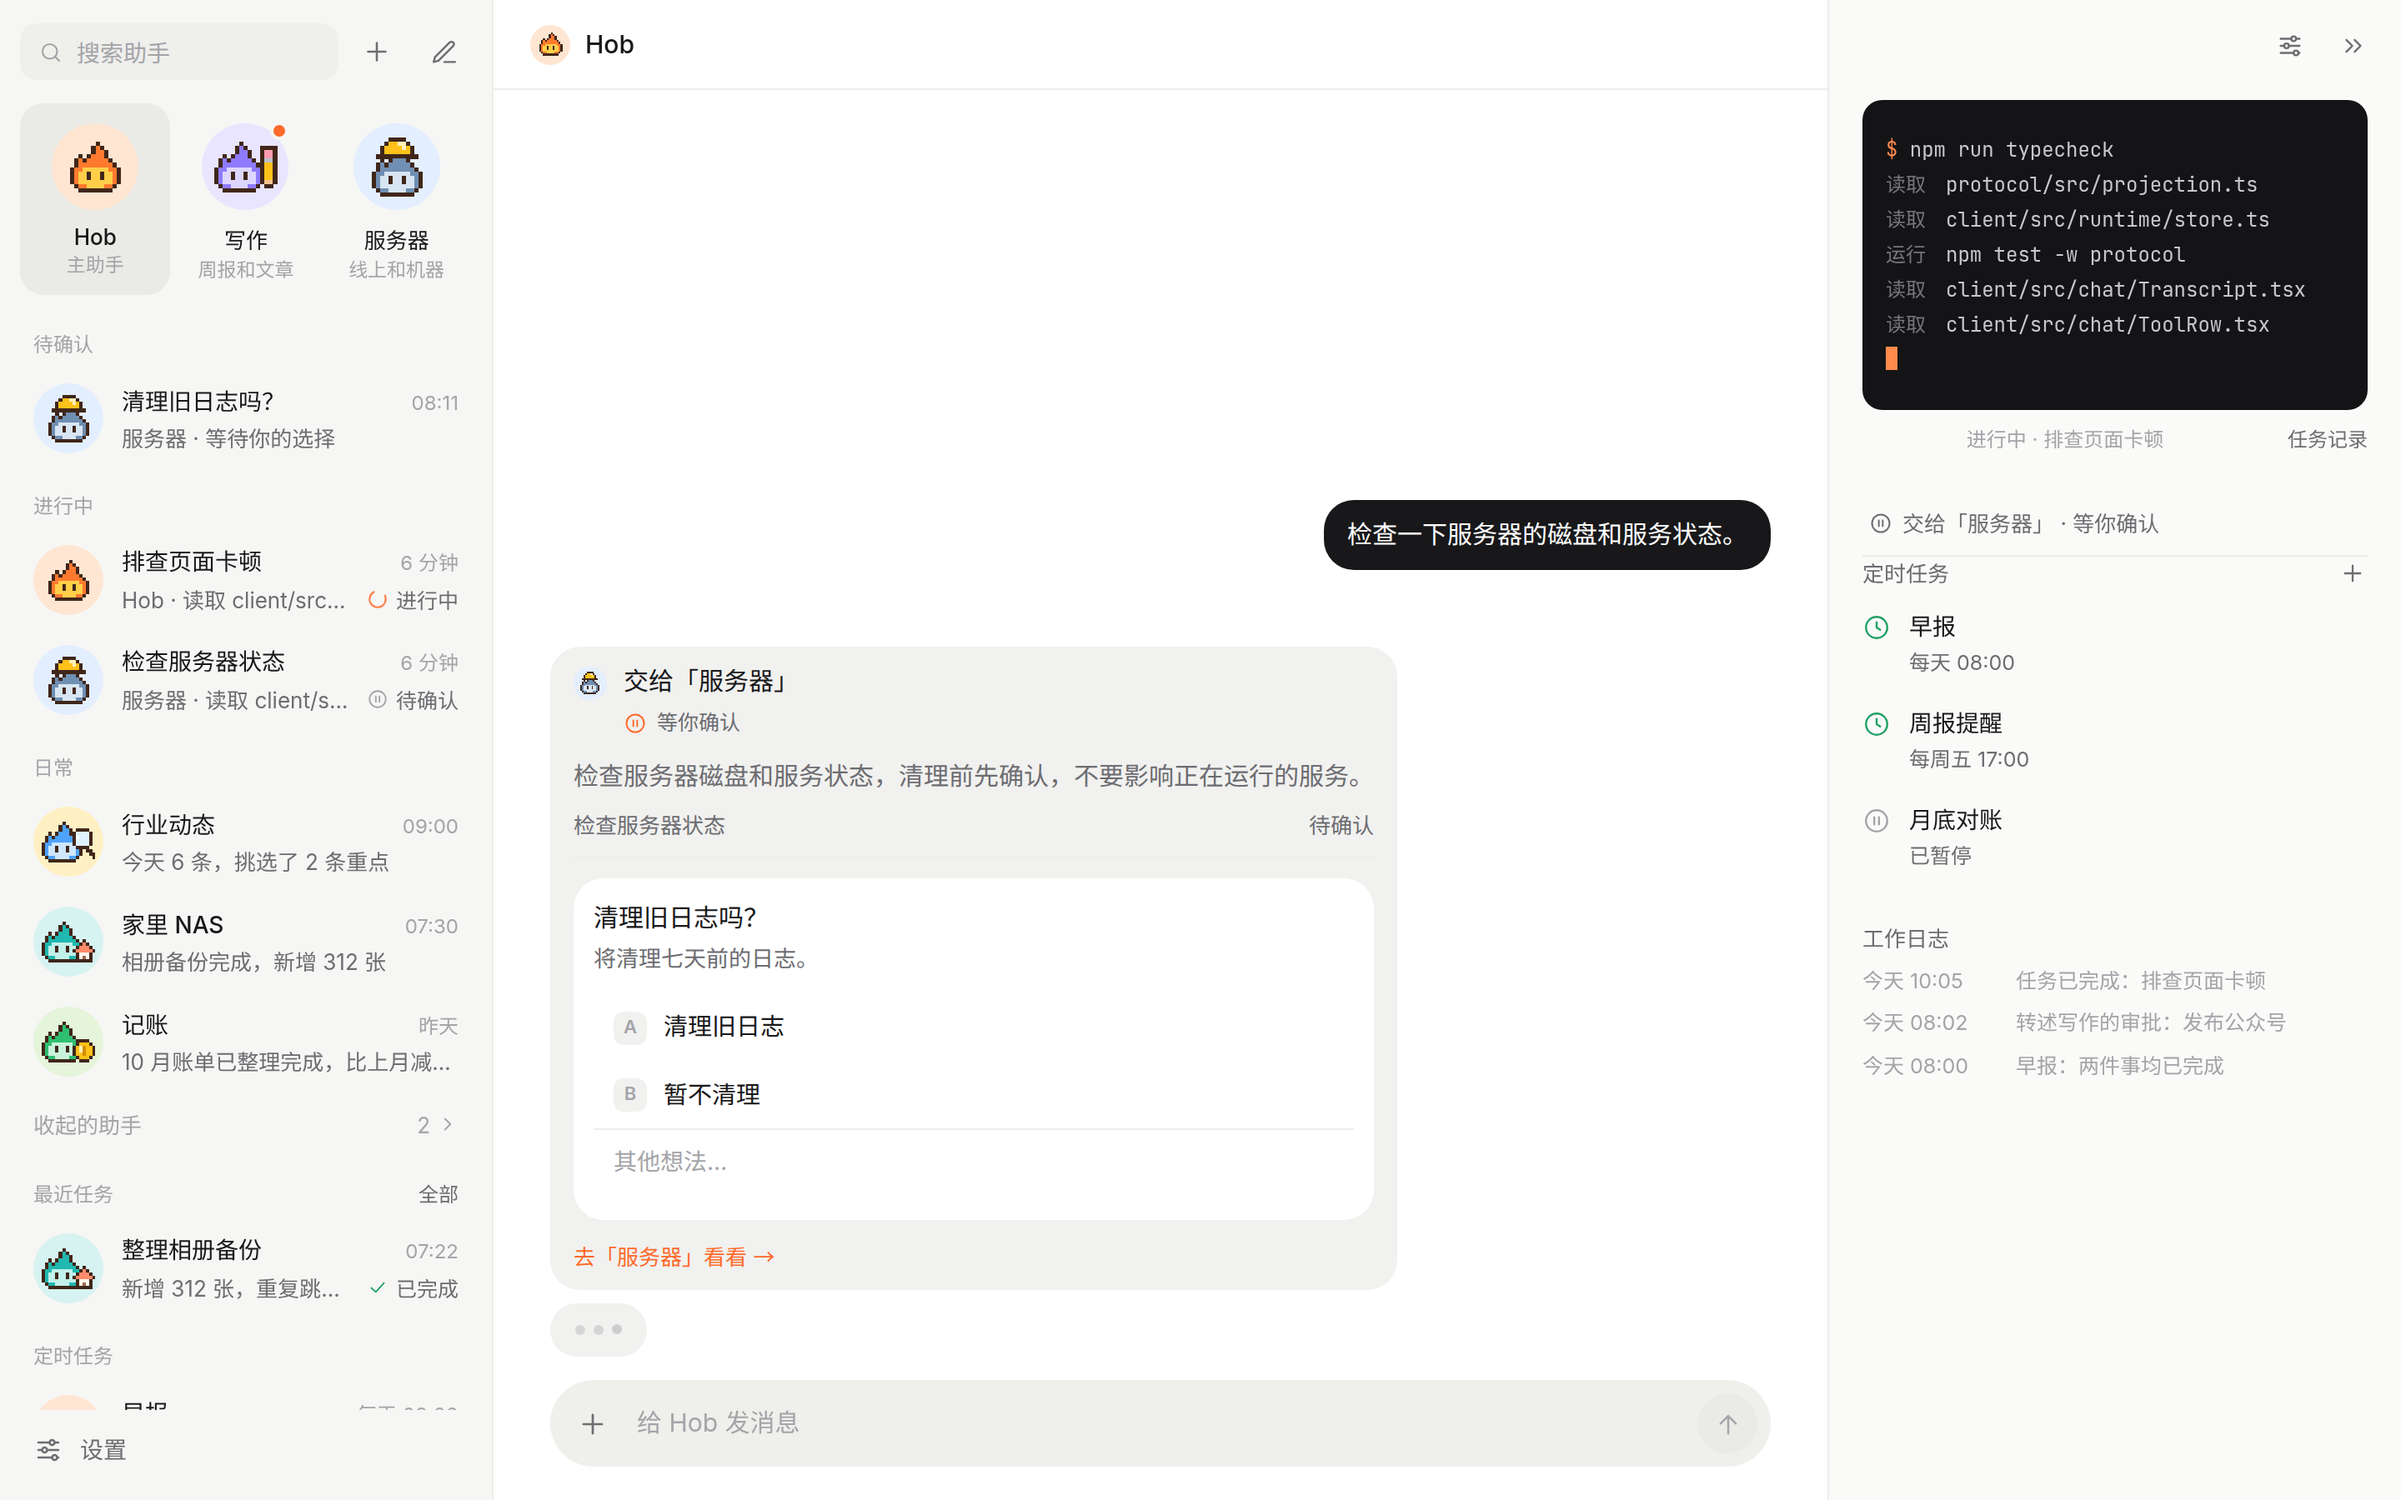
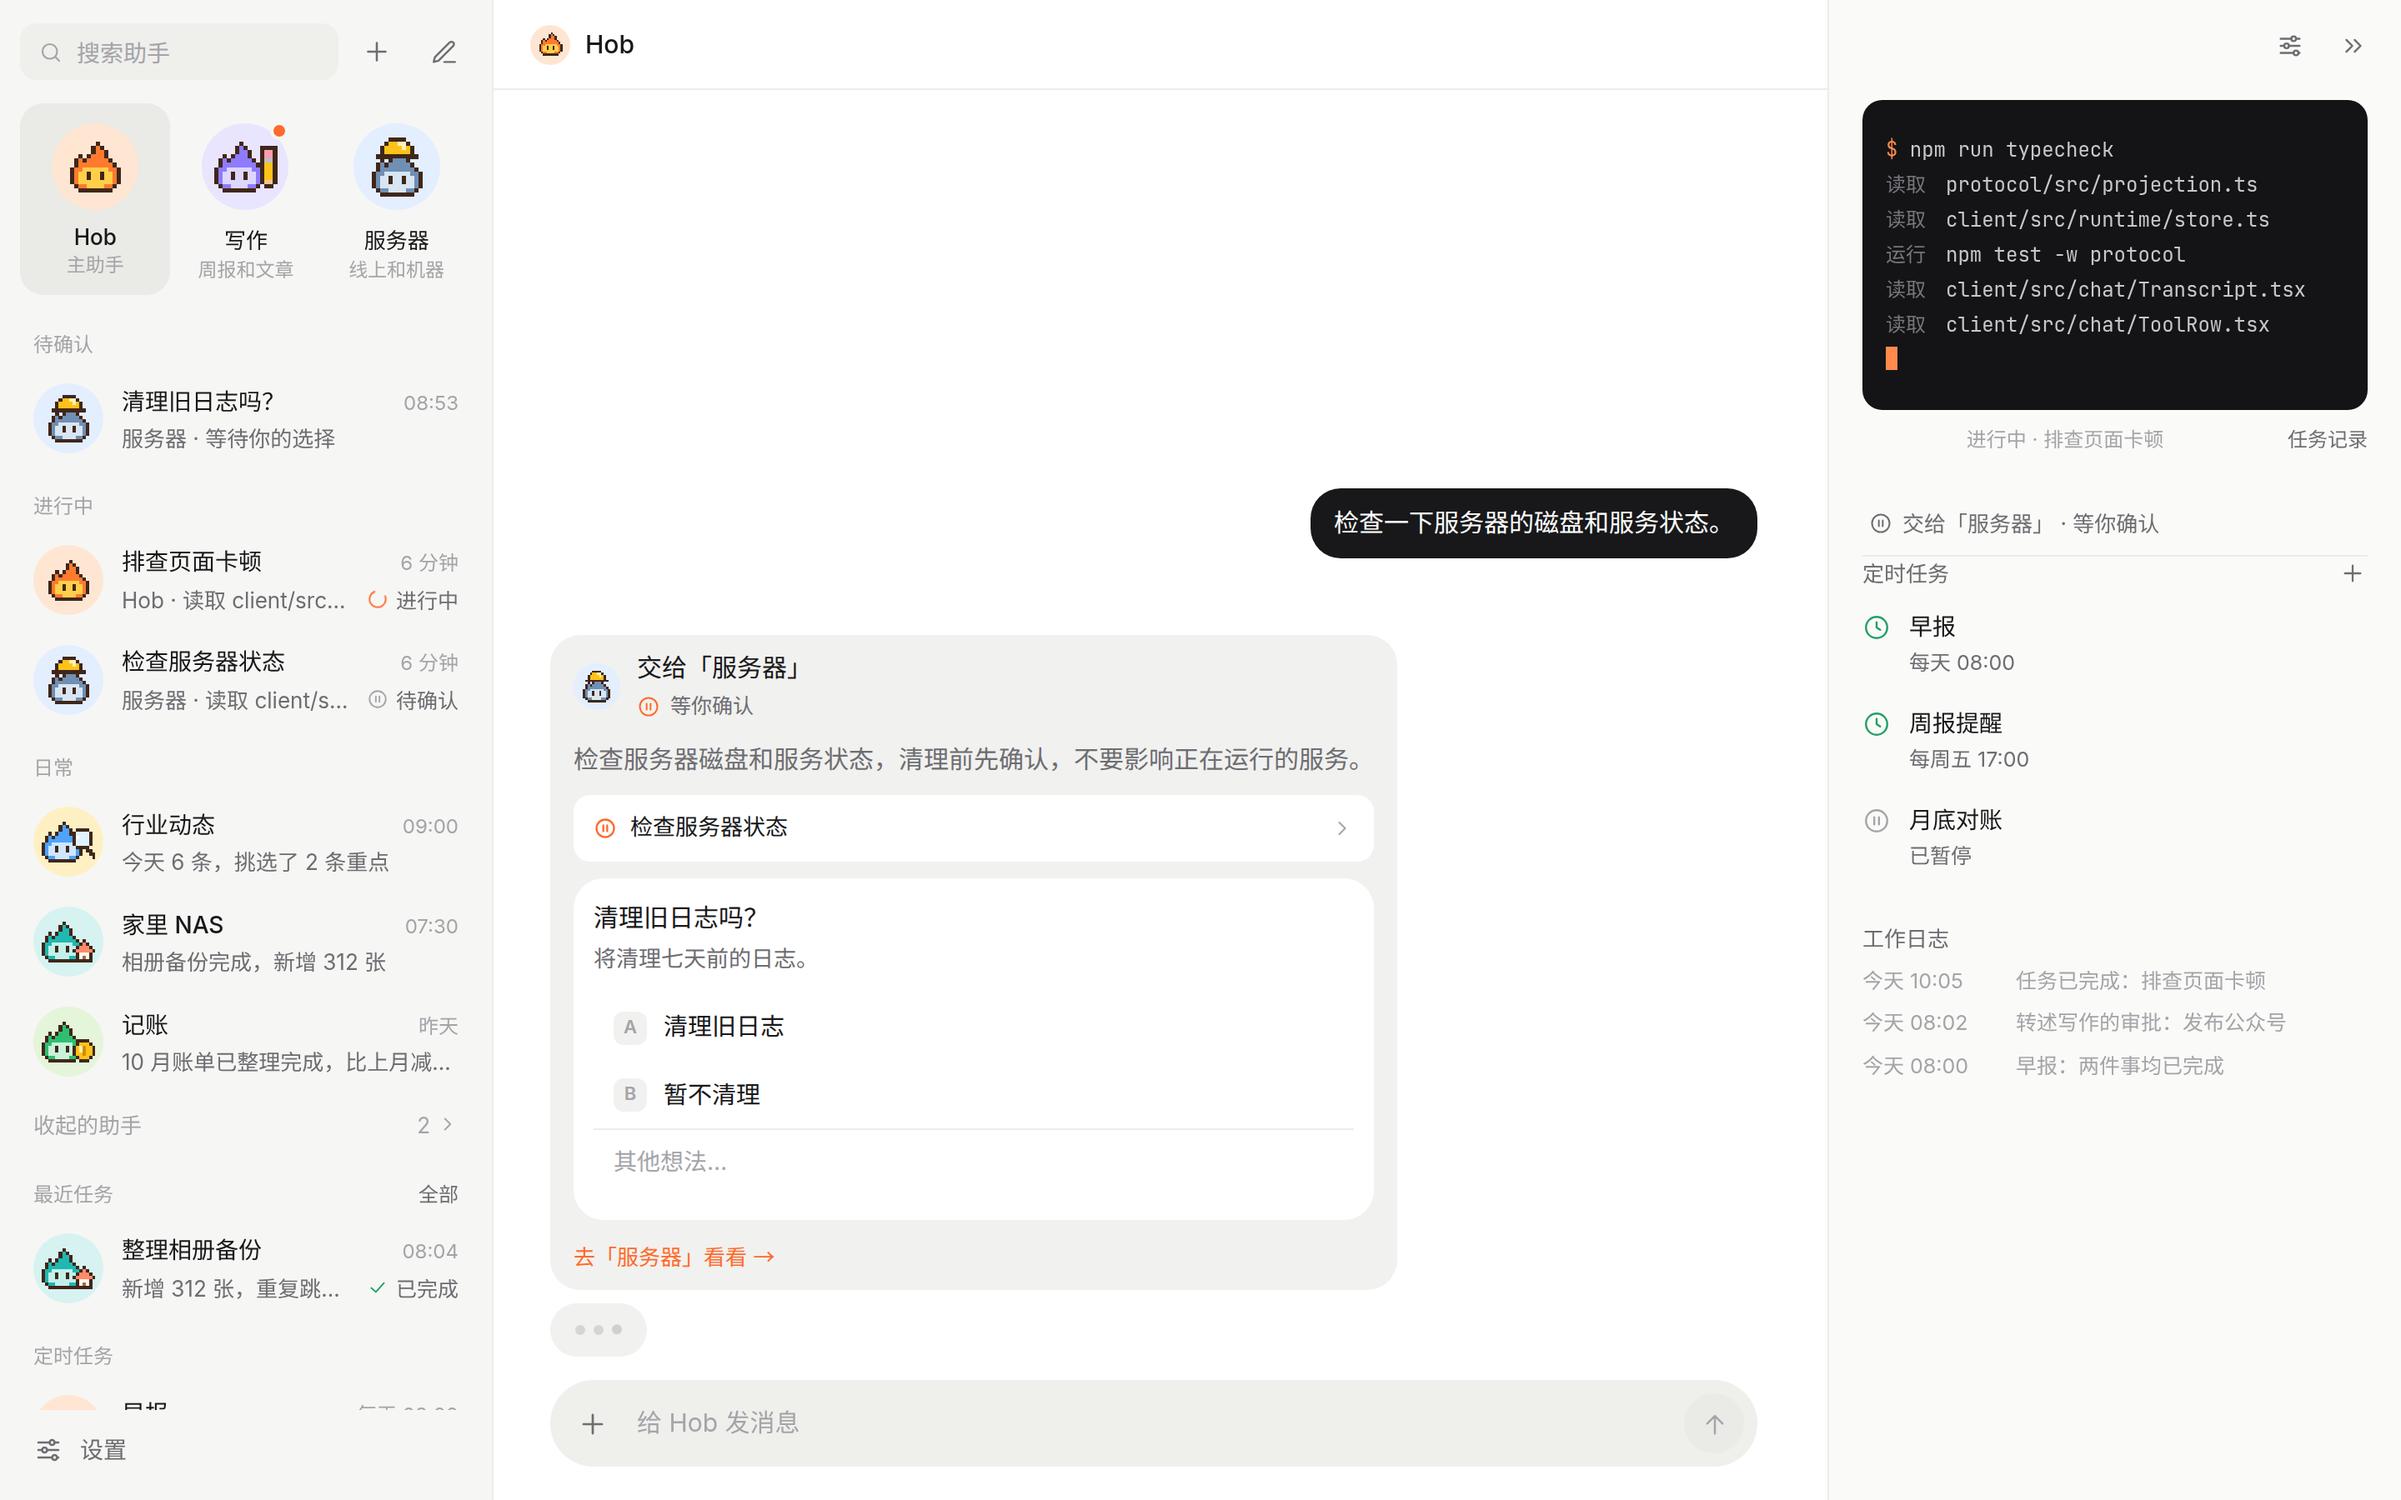
Hob v1.0.1
- Composer lines up with the message column when scrollbars take space (Windows).
- Job records: status, time and duration line up in columns.
- Delegation card header matches the job card; linked jobs show a status icon instead of repeating the status word.
- Refreshed README screenshots.

Changed region(s): [[0.2188, 0.4356, 0.5625, 0.56], [0.5312, 0.3111, 0.75, 0.4044]]

diff --git a/web/src/styles.css b/web/src/styles.css
@@ -451,10 +451,12 @@ svg.i {
 .head .sp {
   flex: 1;
 }
+/* 消息区和输入框都预留滚动条的位置：Windows 上滚动条占宽，不预留的话消息列会比输入框往左偏半个滚动条 */
 .msgs {
   flex: 1;
   min-height: 0;
   overflow-y: auto;
+  scrollbar-gutter: stable;
   display: flex;
   flex-direction: column;
   padding-bottom: 6px;
@@ -1008,6 +1010,8 @@ svg.i {
 .compwrap {
   flex: none;
   padding: 8px 0 20px;
+  overflow-y: hidden;
+  scrollbar-gutter: stable;
 }
 .comp {
   display: flex;
@@ -3915,13 +3919,16 @@ button.screen,
   font-size: 12.5px;
   color: var(--text3);
 }
+/* 所有行共用一套列（subgrid），状态、时间、用时上下对齐 */
 .jd-rows {
-  display: flex;
-  flex-direction: column;
-}
-.jd-row {
   display: grid;
   grid-template-columns: 26px minmax(0, 1fr) auto auto auto;
+  column-gap: 10px;
+}
+.jd-row {
+  grid-column: 1 / -1;
+  display: grid;
+  grid-template-columns: subgrid;
   align-items: center;
   gap: 10px;
   padding: 9px 8px;
@@ -4211,8 +4218,10 @@ button.screen,
   .jd-foot {
     padding: 10px 14px calc(16px + env(safe-area-inset-bottom, 0px));
   }
-  .jd-row {
+  .jd-rows {
     grid-template-columns: 26px minmax(0, 1fr) auto;
+  }
+  .jd-row {
     row-gap: 2px;
   }
   .jd-row .tm,
@@ -4252,9 +4261,14 @@ button.screen,
 /* 委派卡与任务卡共用结构，审批仍是原来的问题组件。 */
 .delegation-card .delegation-text { display: -webkit-box; -webkit-box-orient: vertical; -webkit-line-clamp: 2; overflow: hidden; color: var(--text2); margin-top: 10px; line-height: 1.55; overflow-wrap: anywhere; width: 100%; }
 .delegation-card .delegation-text.expanded { display: block; white-space: pre-wrap; }
-.delegation-card .delegation-job { display: flex; justify-content: space-between; gap: 12px; width: 100%; padding: 8px 0; color: var(--text2); font-size: 13px; border-bottom: 1px solid var(--line); }
-.delegation-card .delegation-job span:last-child { flex-shrink: 0; }
-.delegation-card .b.q { width: 100%; margin-top: 12px; padding: 12px; background: var(--card); }
+.delegation-card .delegation-job { display: flex; align-items: center; gap: 8px; width: 100%; margin-top: 10px; padding: 9px 12px; border-radius: 10px; background: var(--card); color: var(--text); font-size: 13.5px; text-align: left; }
+.delegation-card .delegation-job > span { flex: 1; min-width: 0; overflow: hidden; text-overflow: ellipsis; white-space: nowrap; }
+.delegation-card .delegation-job > svg { flex: none; color: var(--text3); }
+.delegation-card .delegation-job.running > svg:first-child { color: var(--accent); }
+.delegation-card .delegation-job.done > svg:first-child { color: var(--ok); }
+.delegation-card .delegation-job.waiting > svg:first-child { color: var(--accent); }
+.delegation-card .delegation-job:is(.stuck, .failed) > svg:first-child { color: var(--danger); }
+.delegation-card .b.q { width: 100%; margin-top: 10px; padding: 12px; background: var(--card); }
 .delegation-actions { display: flex; flex-wrap: wrap; gap: 16px; margin-top: 12px; color: var(--accent); font-size: 13px; }
 .delegation-card .st.bad { color: var(--danger); }
 .forward-label { display: flex; align-items: center; gap: 5px; color: var(--accent); font-size: 12px; font-weight: 600; margin-bottom: 5px; }

diff --git a/web/src/components/Items.tsx b/web/src/components/Items.tsx
@@ -384,8 +384,8 @@ function DelegationCard({ delegation, fresh }: { delegation: Delegation; fresh: 
     <div className={`hov${fresh ? " enter" : ""}`} id={`delegation-${delegation.id}`}>
       <div className="b jobcard delegation-card">
         <div className="tt">
-          {target ? <Avatar sprite={target.sprite} prop={target.prop} size={20} /> : null}
-          <span>交给「{name}」</span>
+          {target ? <span className="jav"><Avatar sprite={target.sprite} prop={target.prop} size={28} /></span> : null}
+          <span className="jt">交给「{name}」</span>
           <span className={`st${delegation.status === "done" ? " done" : ""}${delegation.status === "stuck" || delegation.status === "interrupted" || delegation.status === "returned" ? " bad" : ""}`}>
             <Icon name={delegation.status === "running" ? "spin" : delegation.status === "done" ? "check" : delegation.status === "waiting" ? "pause" : "close"} className={delegation.status === "running" ? "spin" : ""} size={14} />
             {labels[delegation.status]}
@@ -395,7 +395,14 @@ function DelegationCard({ delegation, fresh }: { delegation: Delegation; fresh: 
         {delegation.status === "returned" && delegation.reply ? <div className="note">{delegation.reply}</div> : null}
         {delegation.jobIds.map((id) => {
           const job = s.jobs[id];
-          return job ? <button className="delegation-job" key={id} onClick={() => openJob(id)}><span>{job.title}</span><span>{STATUS[job.status].text}</span></button> : null;
+          // 卡头已经写了总状态，这里每个任务只给图标（悬停看文字），不再重复「待确认」这类字
+          return job ? (
+            <button className={`delegation-job ${job.status}`} key={id} onClick={() => openJob(id)} title={STATUS[job.status].text}>
+              <Icon name={STATUS[job.status].icon} size={14} w={2} className={STATUS[job.status].cls} />
+              <span>{job.title}</span>
+              <Icon name="chev" size={14} className="go" />
+            </button>
+          ) : null;
         })}
         {approvals.map((approval) => <QuestionCard key={approval.id} approval={approval} fresh={false} />)}
         <div className="delegation-actions">
